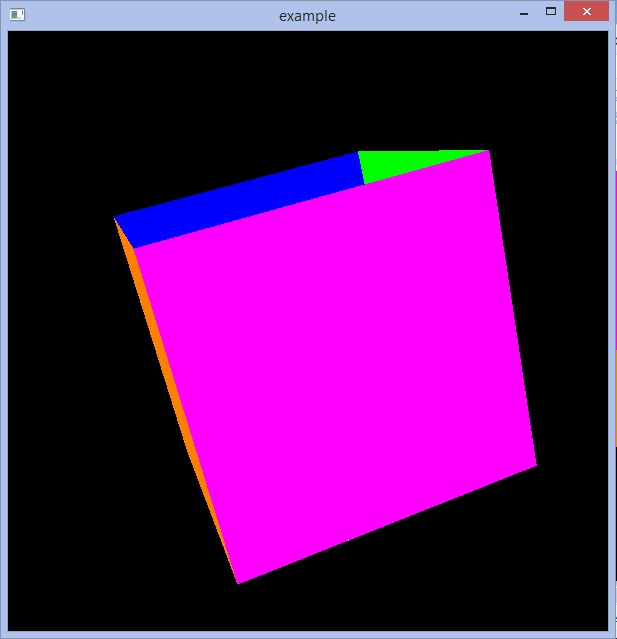
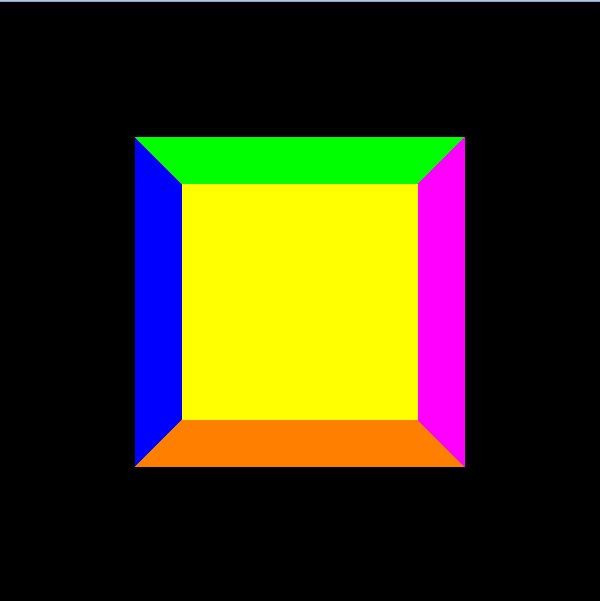
change task 1

diff --git a/computerVision/task1/cube.py b/computerVision/task1/cube.py
@@ -12,10 +12,10 @@ def initGL(width, height):
     glViewport(0, 0, width, height)
 
     glMatrixMode(GL_PROJECTION)
-    viewAngle = 45.0
+    viewAngle = 30.0
     aspect = float(width) / float(height)
-    #gluPerspective(viewAngle, aspect, 0.1, 100.0)
-    glOrtho(-1, 1, -1, 1, -1, 1)
+    gluPerspective(viewAngle, aspect, 0.1, 10)
+    #glOrtho(-1.0, 1.0, -1.0, 1.0, -1, 10)
     glMatrixMode(GL_MODELVIEW)
 
 
@@ -24,8 +24,7 @@ def drawGLScene():
     glClear(GL_COLOR_BUFFER_BIT | GL_DEPTH_BUFFER_BIT)
 
     glLoadIdentity()
-    #glTranslatef(0.0, 0.0, -3.0) # for perspective use translate
-    #glRotatef(0.0, 1.0, 1.0, 1.0)
+    glTranslatef(0.0, 0.0, -4.0)
 
     glBegin(GL_QUADS)
 
@@ -60,23 +59,22 @@ def drawGLScene():
     glVertex3f(0.5, -0.5, -0.5)
 
     glEnd()
-
-    # since this is double buffered, swap the buffers to display what just got drawn.
     glutSwapBuffers()
 
 
 def main():
     global window
     glutInit(sys.argv)
+    width = 600
+    height = 600
 
-    # get a 640 x 480 window
-    glutInitWindowSize(600, 600)
+    glutInitWindowSize(width, height)
     window = glutCreateWindow("example")
     glutIdleFunc(drawGLScene)
 
     # Initialize our window.
-    initGL(600, 600)
-
+    initGL(width, height)
+    glutMainLoop()
 
 main()
-glutMainLoop()
+
